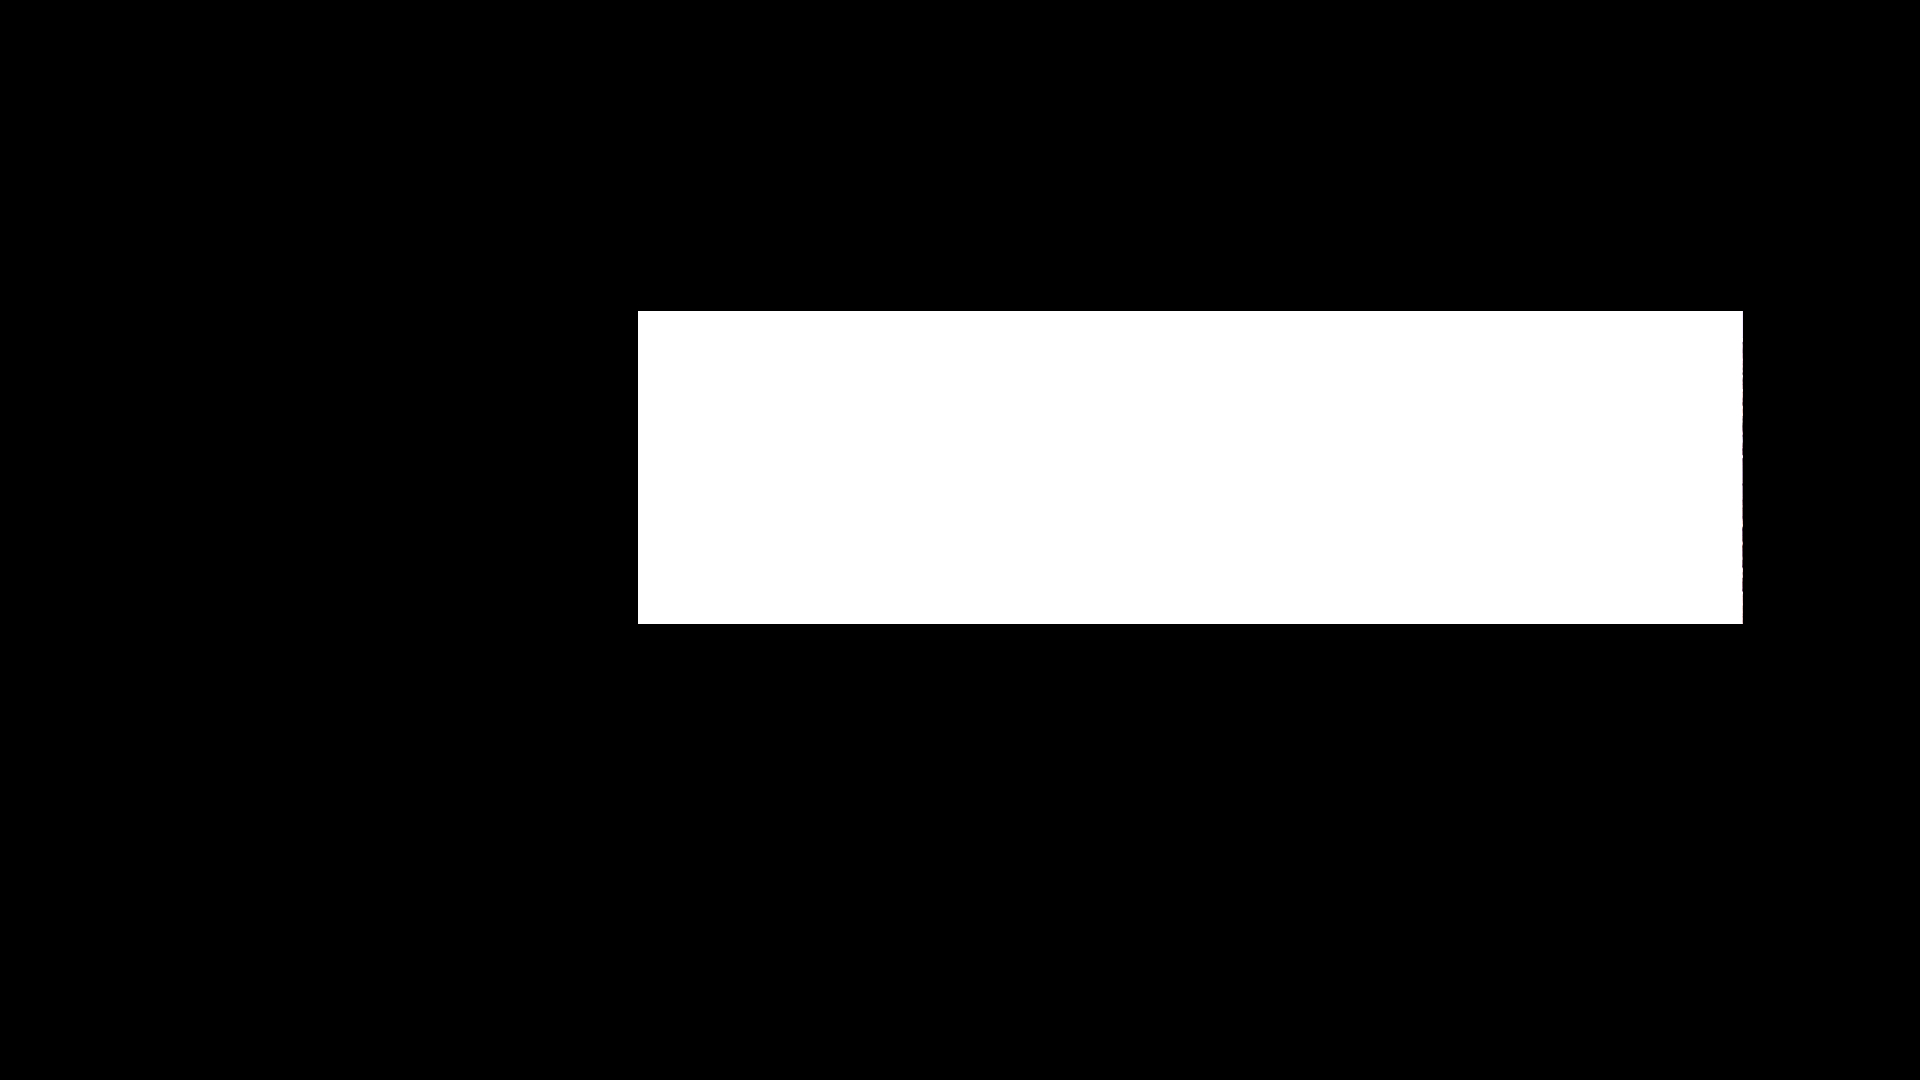
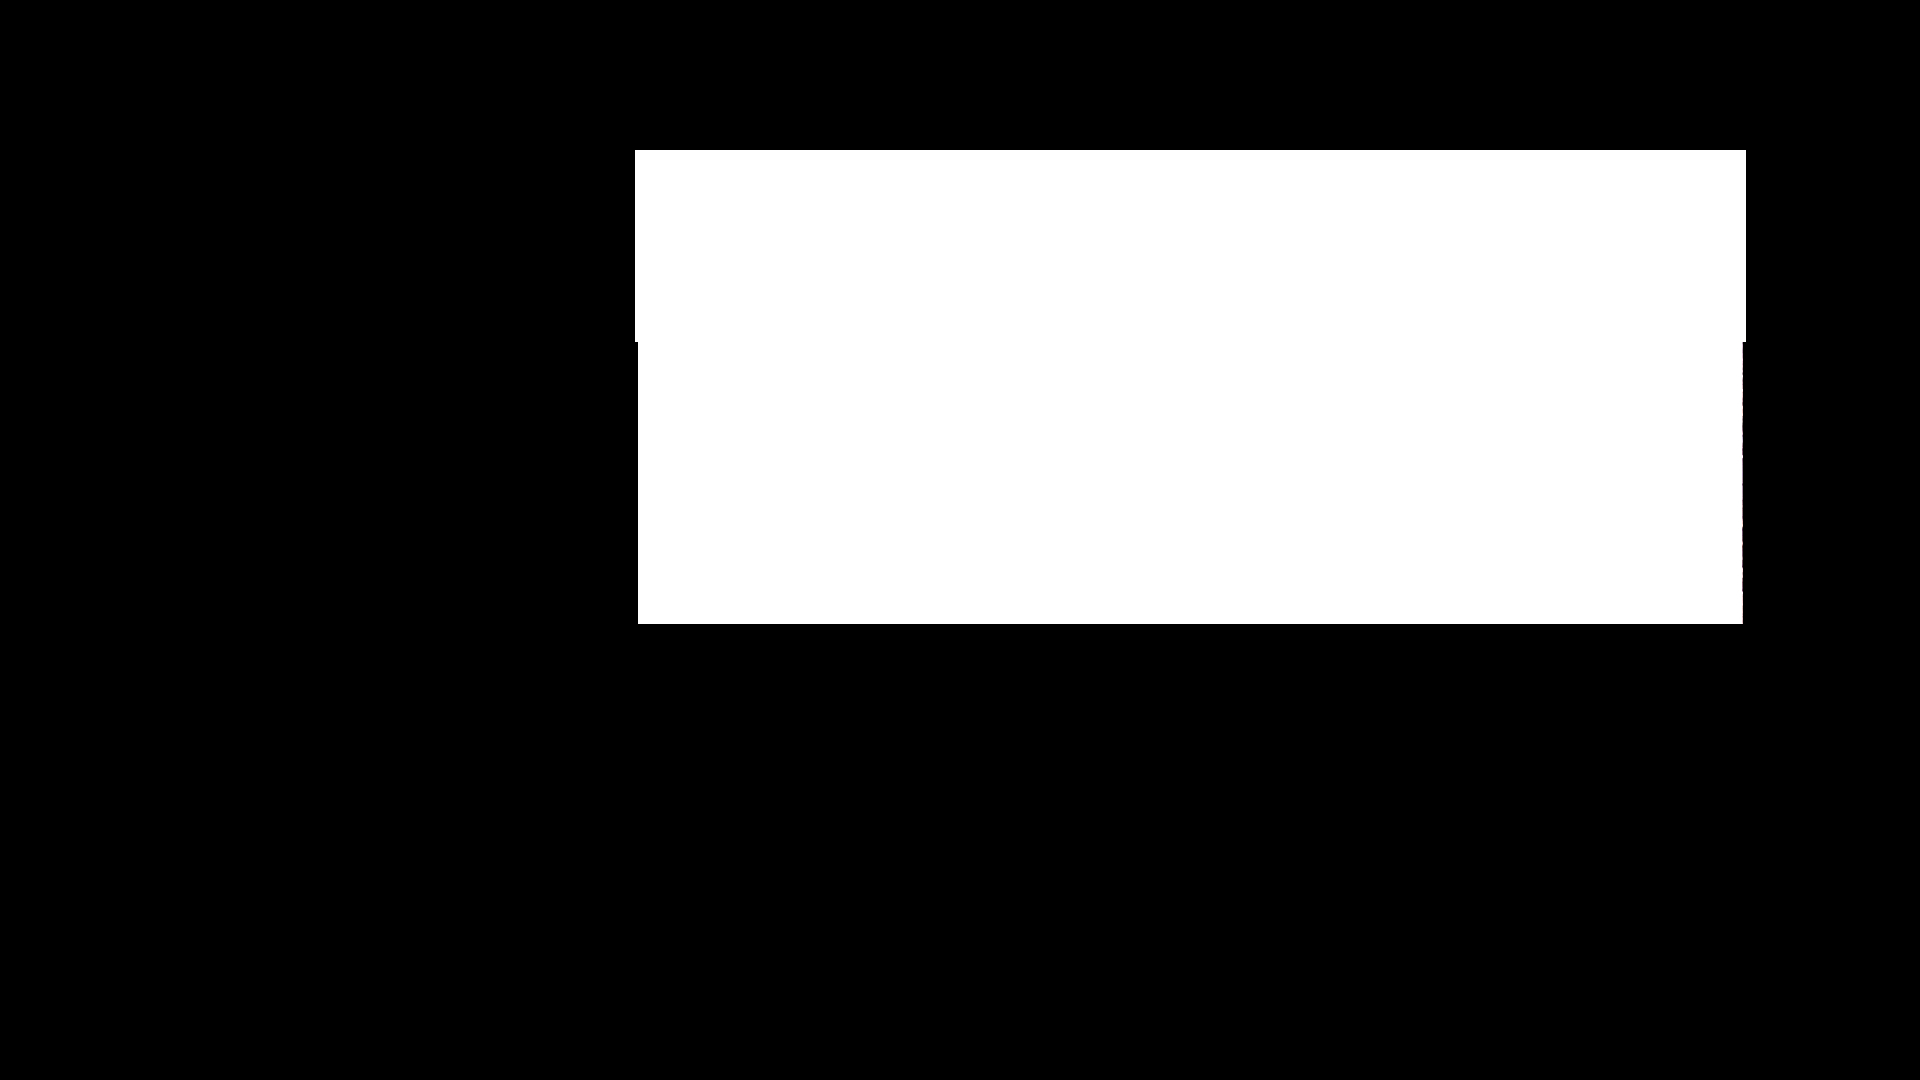
no prewarp

Changed region(s): [[0.3125, 0.1222, 0.9062, 0.3056]]

diff --git a/nqtrucks/Dispositivos/Alpr/NewsagesAlprTask.cpp b/nqtrucks/Dispositivos/Alpr/NewsagesAlprTask.cpp
@@ -71,8 +71,8 @@ void NewsagesAlprTask::setFotoCalibrada(){
         m_prewarp = m_settings->value(QString(ALPR) + "/prewarp2","").toString();//default_prewarp).toString());
         break;
     }
-    qDebug() << "Prewarp/Device: " << m_prewarp  << "    /    "  << m_nDevice;
-    m_matricularesult->apply_prewarp(m_config_file,m_prewarp,m_nDevice);
+    //qDebug() << "Prewarp/Device: " << m_prewarp  << "    /    "  << m_nDevice;
+    //m_matricularesult->apply_prewarp(m_config_file,m_prewarp,m_nDevice);
     switch (getNType()) {
     case ALPR_PLANCK_BLANCO:
         m_matricularesult->setPlanckBlanco(getPlank());
@@ -148,7 +148,7 @@ void NewsagesAlprTask::procesarBlancas(){
                                                      plate.plate_points[2].x - plate.plate_points[0].x,
                                                      plate.plate_points[2].y - plate.plate_points[0].y);
                             cv::Mat _resize;
-                            cv::resize(cv::Mat(m_matricularesult->getOrigenFotoPrewarp(),rect),_resize,MatriculaSize);
+                            cv::resize(cv::Mat(m_matricularesult->getOrigenFoto(),rect),_resize,MatriculaSize);
                             m_matricularesult->setMatriculaFotoA(_resize);
                             _resize.release();
                         }
@@ -213,7 +213,7 @@ void NewsagesAlprTask::procesarRojas(){
                                                          plate.plate_points[2].x - plate.plate_points[0].x,
                                                          plate.plate_points[2].y - plate.plate_points[0].y);
                                 cv::Mat _resize;
-                                cv::resize(cv::Mat(m_matricularesult->getOrigenFotoPrewarp(),rect),_resize,MatriculaSize);
+                                cv::resize(cv::Mat(m_matricularesult->getOrigenFoto(),rect),_resize,MatriculaSize);
                                 m_matricularesult->setMatriculaFotoB(_resize);
                             }
                        }

diff --git a/nqtrucks/Registros/MatriculaResults.h b/nqtrucks/Registros/MatriculaResults.h
@@ -75,13 +75,13 @@ namespace nQTrucks{
                 //_dest.release();
                 //delete _dest;
 
-                this->setOrigenFotoBlanca(OrigenFotoPrewarp.clone()); /** MEMORY LEAK **/
+                this->setOrigenFotoBlanca(OrigenFoto.clone()); /** MEMORY LEAK **/
             }
 
             inline void setPlanckRojo(  const Planck &value){
                 // USAR LBP
                 cv::Mat channel[3];
-                cv::Mat *_dest = new cv::Mat(OrigenFotoPrewarp.clone());
+                cv::Mat *_dest = new cv::Mat(OrigenFoto.clone());
                 cv::add(*_dest,cv::Scalar(value.A,value.B,value.C),*_dest);
                 cv::split(*_dest,channel);
                 cv::add(channel[0], channel[1], *_dest); /** MEMORY LEAK **/
